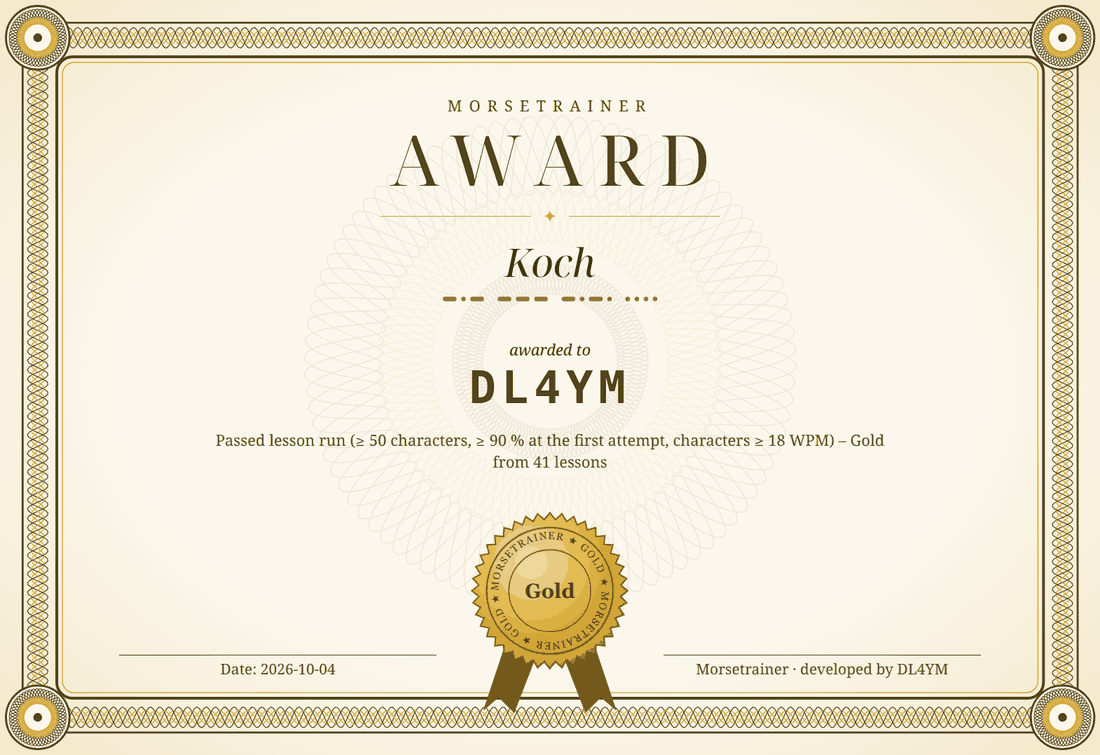
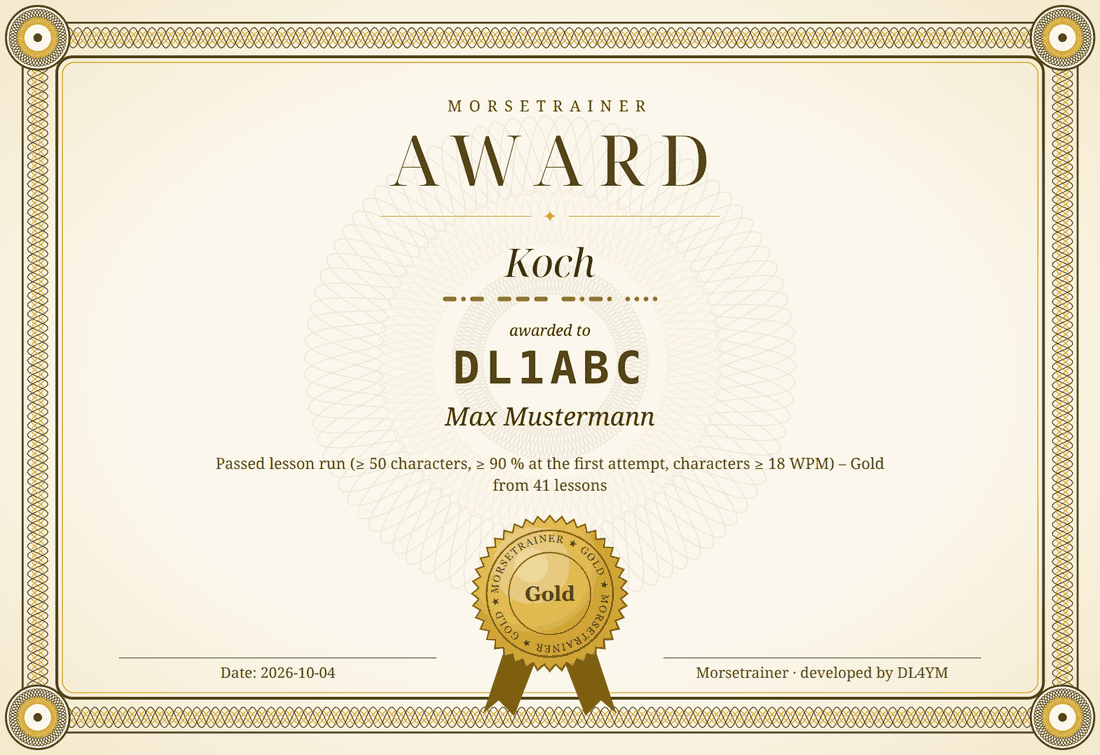
README: Bilder einheitlich unter „So sieht er aus“, Diplom mit Beispiel-Rufzeichen
Drei Bilder gleich breit mit kurzen Überschriften statt verstreut, Titelzeile
repariert. Diplom auf DL1ABC / Max Mustermann ausgestellt.

diff --git a/README.md b/README.md
@@ -1,5 +1,4 @@
-#
-Morsetrainer
+# Morsetrainer
 
 Ein CW-Trainer für Einsteiger bis Contester, entwickelt von **DL4YM**.
 
@@ -9,8 +8,6 @@ eigenen Rechner oder gemeinsam am Clubabend im lokalen Netz.
 
 **English:** The program can be switched to English under „▸ Weitere
 Optionen“ → „Sprache / Language“. English overview: [README.en.md](README.en.md).
-
-![Reiter Gruppen: Mitschreiben im Koch-Tempo 20/10, „Richtig: ESJ“](docs/bilder/gruppen.png)
 
 ## Was er kann
 
@@ -28,12 +25,23 @@ Optionen“ → „Sprache / Language“. English overview: [README.en.md](READM
 - **Statistik:** je Zeichen, Lernkartei über Tage, häufigste
   Verwechslungen zum gezielten Üben, Diplome in Bronze, Silber und Gold
   zum Ausdrucken, Lebenslinie.
-  ![Koch-Diplom in Gold zum Ausdrucken](docs/bilder/diplom.png)
 - **Netzwerk:** Kurs oder Clubabend im lokalen Netz. Der Trainer gibt vor,
   alle hören dieselbe Sequenz und tippen mit, der Trainer sieht live, wer
   was getippt hat. Auch mit festem Takt für Papier und Bleistift.
 
-![Clubabend: Tabelle des Trainers mit vier Teilnehmern](docs/bilder/netzwerk.png)
+## So sieht er aus
+
+### Mitschreiben im Koch-Tempo
+
+<img src="docs/bilder/gruppen.png" width="640" alt="Reiter Gruppen: Mitschreiben im Koch-Tempo 20/10, „Richtig: ESJ“">
+
+### Diplom zum Ausdrucken
+
+<img src="docs/bilder/diplom.png" width="640" alt="Koch-Diplom in Gold für DL1ABC">
+
+### Clubabend im Netzwerk
+
+<img src="docs/bilder/netzwerk.png" width="640" alt="Clubabend: Tabelle des Trainers mit vier Teilnehmern">
 
 ## Download
 

diff --git a/README.en.md b/README.en.md
@@ -10,8 +10,6 @@ or together at a club evening on the local network.
 „▸ Weitere Optionen“ → „Sprache / Language“; it takes effect after a
 restart. The screenshots show the German interface.
 
-![Groups tab: copying at Koch speed 20/10, “Richtig: ESJ” (correct)](docs/bilder/gruppen.png)
-
 ## What it does
 
 - **Koch method** with the lessons of lcwo.net and Koch speed 20/10: hear
@@ -28,13 +26,24 @@ restart. The screenshots show the German interface.
 - **Statistics:** per character, spaced repetition over days, most frequent
   confusions to practise specifically, printable awards in bronze, silver
   and gold, lifeline.
-  ![Koch award in gold, ready to print](docs/bilder/diplom.en.png)
 - **Network:** class or club evening on the local network. The trainer
   sets the pace, everyone hears the same sequence and types along, the
   trainer sees live who typed what. Also with a fixed pace for pencil and
   paper.
 
-![Club evening: the trainer's table with four participants](docs/bilder/netzwerk.png)
+## Screenshots
+
+### Copying at Koch speed
+
+<img src="docs/bilder/gruppen.png" width="640" alt="Groups tab: copying at Koch speed 20/10, “Richtig: ESJ” (correct)">
+
+### Award to print
+
+<img src="docs/bilder/diplom.en.png" width="640" alt="Koch award in gold for DL1ABC">
+
+### Club evening on the network
+
+<img src="docs/bilder/netzwerk.png" width="640" alt="Club evening: the trainer's table with four participants">
 
 ## Download
 

diff --git a/docs/Anleitung.en.md b/docs/Anleitung.en.md
@@ -102,7 +102,7 @@ can also change in the window). During the
 daily practice the window comes only after the evening summary, which
 also mentions the new seals from the daily practice.
 
-![Example: Koch award in gold for DL4YM](bilder/diplom.en.png)
+![Example: Koch award in gold for DL1ABC](bilder/diplom.en.png)
 
 The overview is in the **Statistics** tab under “Awards”: all awards with
 the seals achieved, the next goal (e.g. “Silver: 18 / 25 lessons”) and

diff --git a/docs/Anleitung.md b/docs/Anleitung.md
@@ -98,7 +98,7 @@ Fenster auch änderbar). In der
 Tagesübung kommt das Fenster erst nach der Abendbilanz, die die neuen
 Siegel aus der Tagesübung auch nennt.
 
-![Beispiel: Koch-Diplom in Gold für DL4YM](bilder/diplom.png)
+![Beispiel: Koch-Diplom in Gold für DL1ABC](bilder/diplom.png)
 
 Die Übersicht steht im Reiter **Statistik** unter „Diplome“: alle
 Diplome mit erreichten Siegeln, dem nächsten Ziel (z. B. „Silber: 18 / 25
